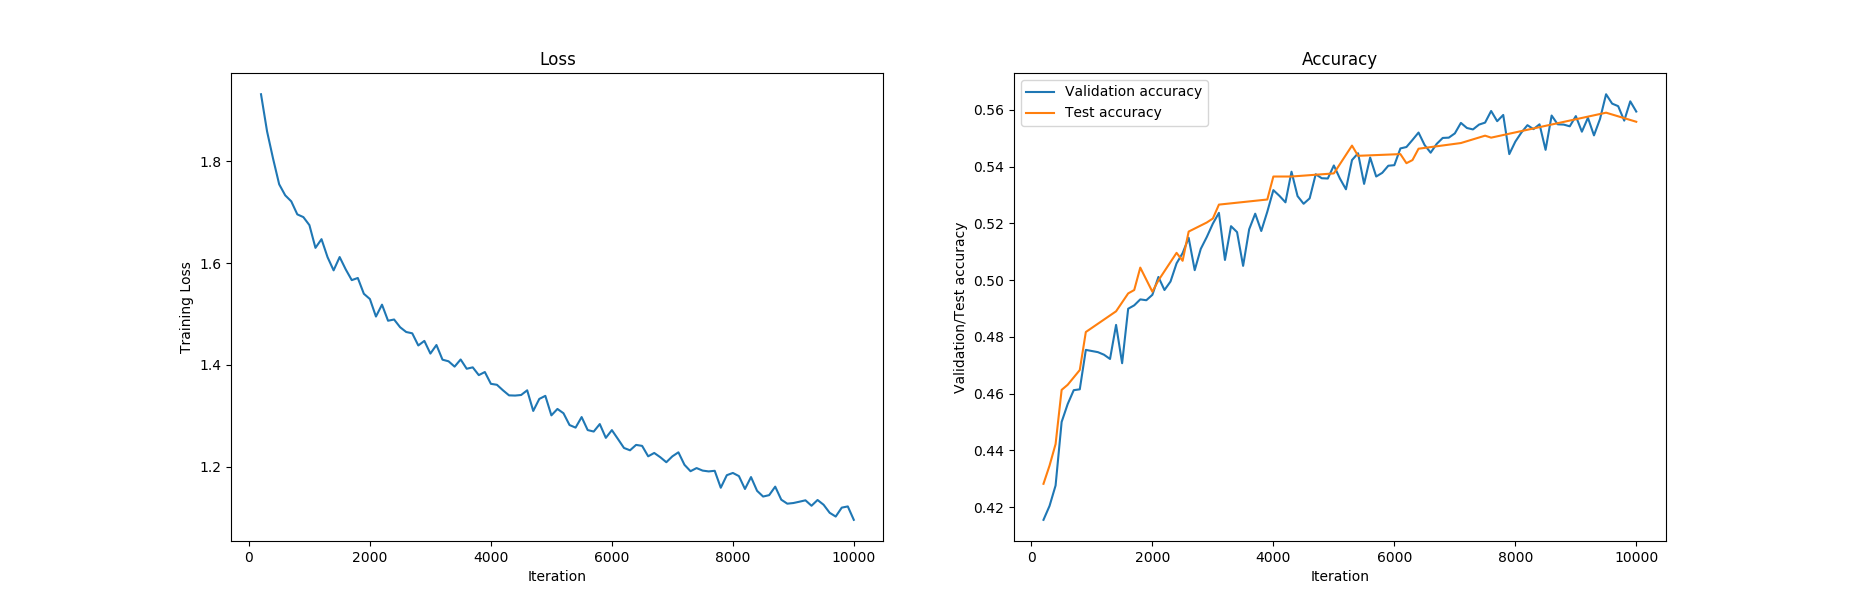
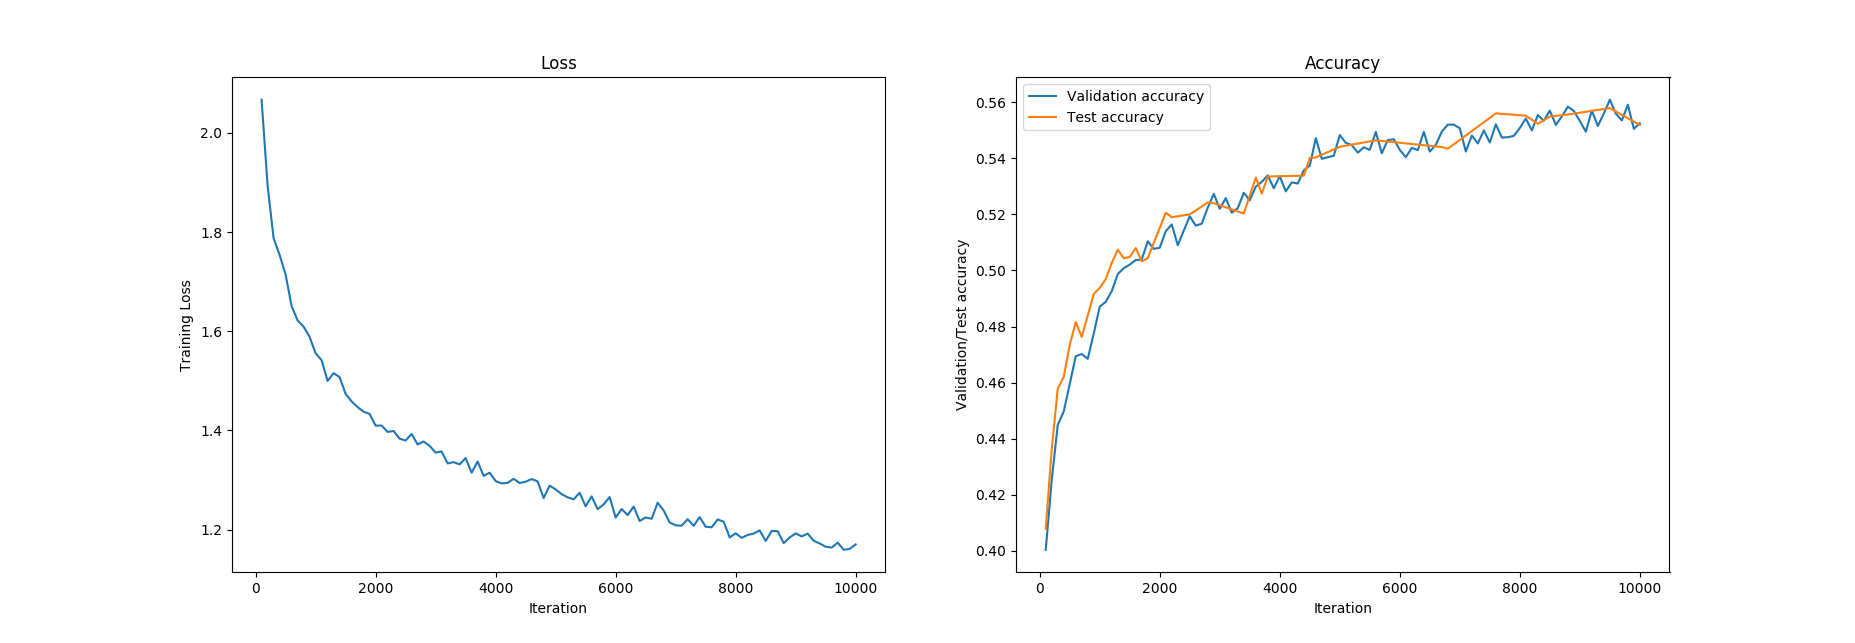
support adam optimizer and bce loss

diff --git a/blocks/losses.py b/blocks/losses.py
@@ -12,13 +12,16 @@ class CrossEntropyLoss(object):
         self.l2_reg =None
         self.params = None
 
+    def softmax(self, z):
+        exp_score = np.exp(z - np.max(z, axis=1).reshape(-1, 1))
+        normalization = np.sum(exp_score, axis=1).reshape(-1, 1)
+        return exp_score / normalization
+
     def forward(self, input, labels):
-        self.y = labels
+        self.y = labels.reshape(-1)
         self.batch_size = input.shape[0]
 
-        exp_score = np.exp(input - np.max(input, axis=1).reshape(-1, 1))
-        normalization = np.sum(exp_score, axis=1).reshape(-1, 1)
-        self.p = exp_score / normalization
+        self.p =self.softmax(input)
         loss = - np.sum(np.log(self.p[range(self.batch_size), self.y] + 1e-8)) / self.batch_size
         if self.l2_reg:
             for key in self.params:
@@ -27,16 +30,49 @@ class CrossEntropyLoss(object):
         return loss
 
     def score(self, input, y):
-        exp_score = np.exp(input - np.max(input, axis=1).reshape(-1, 1))
-        normalization = np.sum(exp_score, axis=1).reshape(-1, 1)
-        p = exp_score / normalization
+        p = self.softmax(input)
         y_pred = np.argmax(p, axis=1)
-        return np.mean(y == y_pred)
+        return np.mean(y.reshape(-1) == y_pred)
 
     def backward(self):
         p = self.p
         p[range(self.batch_size), self.y] -= 1
         return (p + 1e-8) / self.batch_size
+
+
+class BCELoss(object):
+
+    def __init__(self):
+        self.block = 'loss'
+        self.num = None
+        self.batch_size = None
+        self.y = None
+        self.p = None
+        self.l2_reg =None
+        self.params = None
+
+    def sigmoid(self, z):
+        return 1 / (1 + np.exp(-z))
+
+    def forward(self, input, labels):
+        self.y = labels.reshape(-1, 1)
+        self.batch_size = input.shape[0]
+
+        self.p =self.sigmoid(input)
+        loss = - np.sum(self.y * np.log(self.p + 1e-8) + (1 - self.y) * np.log(1 - self.p + 1e-8)) / self.batch_size
+        if self.l2_reg:
+            for key in self.params:
+                if key[0] == 'W':
+                    loss += 0.5 * self.l2_reg * np.linalg.norm(self.params[key][0])
+        return loss
+
+    def score(self, input, y):
+        p = self.sigmoid(input)
+        y_pred = p > 0.5
+        return np.mean(y.reshape(-1, 1) == y_pred)
+
+    def backward(self):
+        return (self.p - self.y + 1e-8) / self.batch_size
 
 
 class HingeLoss(object):
@@ -51,7 +87,7 @@ class HingeLoss(object):
         self.params = None
 
     def forward(self, input, labels):
-        self.y = labels
+        self.y = labels.reshape(-1)
         self.batch_size = input.shape[0]
 
         correct_scores = input[range(self.batch_size), list(self.y)].reshape(-1, 1)
@@ -67,7 +103,7 @@ class HingeLoss(object):
 
     def score(self, input, y):
         y_pred = np.argmax(input, axis=1)
-        return np.mean(y == y_pred)
+        return np.mean(y.reshape(-1) == y_pred)
 
     def backward(self):
         grad = np.zeros(self.margin.shape)

diff --git a/utils/optimizers.py b/utils/optimizers.py
@@ -1,3 +1,6 @@
+import numpy as np
+
+
 class SGD(object):
 
     def __init__(self, learning_rate, lr_decay=None):
@@ -42,11 +45,36 @@ class Momentum(object):
             self.velocity[key] = self.velocity[key] * self.momentum + self.lr * self.grads[key][0]
             param[0] -= self.velocity[key]
 
-    def load_momentum(self):
-        for key in self.params:
-            self.velocity[key] = 0
 
     def load(self, params, grads):
         self.params = params
         self.grads = grads
-        self.load_momentum()
+        for key in self.params:
+            self.velocity[key] = 0
+
+
+class Adam(object):
+
+    def __init__(self, learning_rate, betas=(0.9, 0.999)):
+        self.params = None
+        self.grads = None
+        self.m = {}
+        self.v = {}
+        self.lr = learning_rate
+        self.beta1 = betas[0]
+        self.beta2 = betas[1]
+
+    def step(self, iter):
+        t = iter + 1
+        for key, param in self.params.items():
+            self.m[key] = self.beta1 * self.m[key] + (1 - self.beta1) * self.grads[key][0]
+            self.v[key] = self.beta2 * self.v[key] + (1 - self.beta2) * np.square(self.grads[key][0])
+            lr = self.lr * np.sqrt(1 - self.beta2**t) / (1 - self.beta1**t)
+            param[0] -= lr * (self.m[key] / (np.sqrt(self.v[key] + 1e-8)))
+
+    def load(self, params, grads):
+        self.params = params
+        self.grads = grads
+        for key in self.params:
+            self.v[key] = 0
+            self.m[key] = 0

diff --git a/utils/network.py b/utils/network.py
@@ -65,7 +65,7 @@ class Network(object):
                 temp = block.score(input=temp)
         return acc
 
-    def train(self, optimizer, task='classification'):
+    def train(self, optimizer, task='classification', print_freq=100):
         if task != 'classification' and task != 'regression':
             raise Exception('Unknown task (neither classification nor regression)')
 
@@ -95,7 +95,7 @@ class Network(object):
             self.zero_grad()
 
             # forward
-            batches = np.random.choice(np.arange(self.x_tr.shape[0]), self.batch_size, True)
+            batches = np.random.choice(np.arange(self.x_tr.shape[0]), self.batch_size, replace=False)
             x_batch, y_batch = self.x_tr[batches, :], self.y_tr[batches]
             loss = self.forward(x_batch, y_batch)
             sum_loss += loss
@@ -107,8 +107,8 @@ class Network(object):
             # parameters update
             optimizer.step(i)
 
-            # print
-            if (i != 0) and (i % 100 == 0 or i == self.num_iter - 1):
+            # print and record
+            if i % print_freq == 0 or i == self.num_iter - 1:
                 val_iteration.append(i)
                 ave_loss = sum_loss / sum_iter
                 loss_his.append(ave_loss)

diff --git a/mlp_cifar10.py b/mlp_cifar10.py
@@ -2,10 +2,9 @@ from blocks import layers, activations, losses
 from utils import load_data, network, optimizers
 
 # hyper-parameters
-learning_rate = 0.01
+learning_rate = 0.0003
 num_iter = 10000
 batch_size = 128
-lr_decay = None
 l2_reg = 0.001
 
 # network
@@ -24,7 +23,7 @@ net.add_block(layers.Linear(n_in=1024, n_out=10))
 net.add_block(losses.CrossEntropyLoss())
 
 # optimizer
-optimizer = optimizers.Momentum(learning_rate=learning_rate, momentum=0.9, lr_decay=lr_decay)
+optimizer = optimizers.Adam(learning_rate=learning_rate, betas=(0.9, 0.999))
 
 # data
 train, val, test = load_data.load_cifar10()

diff --git a/mlp_mnist.py b/mlp_mnist.py
@@ -2,7 +2,7 @@ from blocks import layers, activations, losses
 from utils import load_data, network, optimizers
 
 # hyper-parameters
-learning_rate = 0.2
+learning_rate = 0.1
 num_iter = 10000
 batch_size = 128
 lr_decay = [0.2, 6000]
@@ -20,7 +20,7 @@ net.add_block(layers.Linear(n_in=1024, n_out=10))
 net.add_block(losses.CrossEntropyLoss())
 
 #optimizer
-optimizer = optimizers.SGD(learning_rate=learning_rate, lr_decay=lr_decay)
+optimizer = optimizers.Momentum(learning_rate=learning_rate, momentum=0.9, lr_decay=lr_decay)
 
 # data
 train, val, test = load_data.load_mnist()

diff --git a/README.md b/README.md
@@ -4,15 +4,16 @@ NumLayers
 A Deep Learning Library Written in NumPy
 ----
 - A personal project for fun and for the purpose of learning <br>
-- Version: 0.4.1 <br><br>
+- Version: 0.4.2 <br><br>
 - Author: Wenlin Chen <br>
 - E-mail: chen.wenlin@outlook.com <br><br>
-21th December, 2018 <br><br>
+22nd December, 2018 <br><br>
 
 Requirements
 ----
 - Python 3.x<br>
-- NumPy<br><br>
+- NumPy<br>
+- Matplotlib<br><br>
 
 Features
 ----
@@ -24,6 +25,7 @@ Layers<br>
 Losses<br>
 - Cross Entropy Loss<br>
 - Hinge Loss<br>
+- Binary Cross Entropy Loss<br>
 - Mean Square Error Loss<br>
 
 Activation Functions<br> 
@@ -35,6 +37,7 @@ Activation Functions<br>
 Optimizers<br>
 - Stochastic Gradient Descent<br>
 - Momentum<br>
+- Adam<br>
 
 Training Tools<br>
 - Learning Rate Decay<br>
